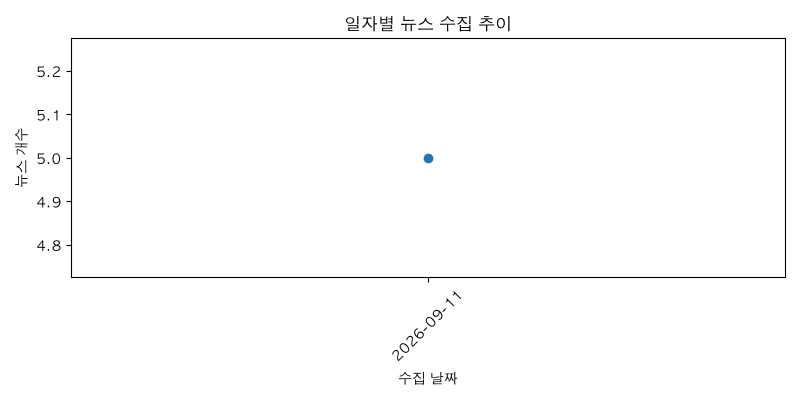
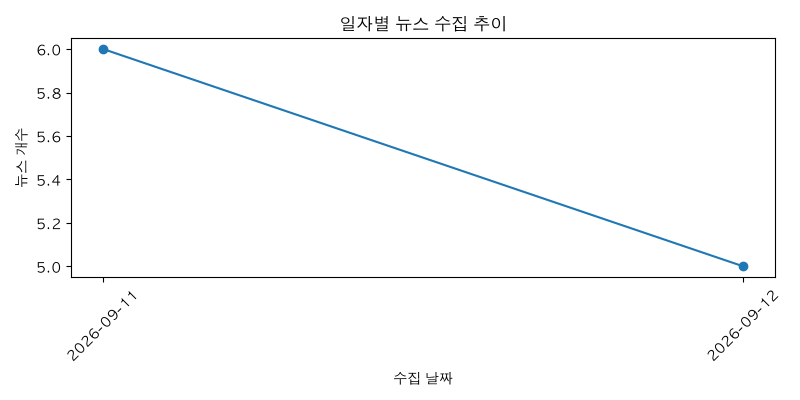
Add generated report and charts

diff --git a/final_report.md b/final_report.md
@@ -1,13 +1,13 @@
 # 📊 AI 뉴스 트렌드 종합 리포트
 
     ## 1. 데이터 수집 통계
-    - **총 수집된 뉴스 기사:** 5건
-    - **요약 완료된 뉴스:** 5건 (100.00%)
-    - **완료된 뉴스:** 5건 (100.00%)
+    - **총 수집된 뉴스 기사:** 11건
+    - **요약 완료된 뉴스:** 11건 (100.00%)
+    - **완료된 뉴스:** 11건 (100.00%)
     - **분석 상태:** 요약 및 트렌드 분석 완료
     
 ## 2. 카테고리 TOP 3
-1. **IT** - 5건
+1. **IT** - 11건
 
 ## 3. 🤖 AI 인사이트 분석 결과
 
